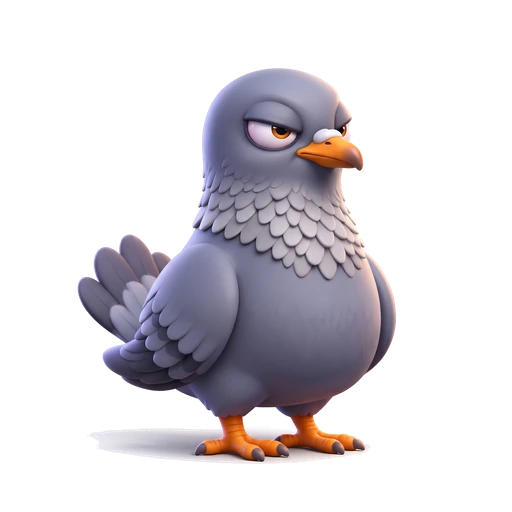
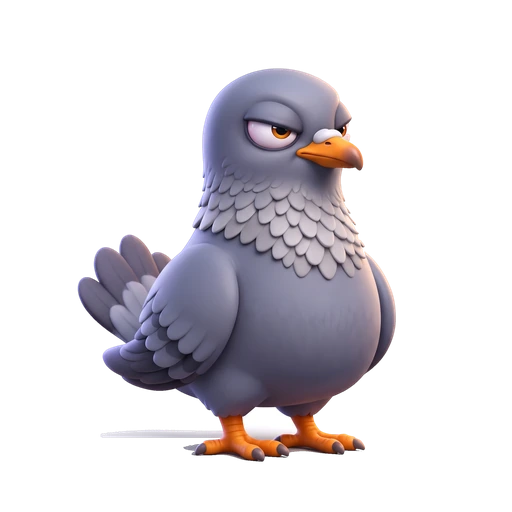
fix: убран белёсый ореол под лапами и добавлен dev-блок превью слоёв

Changed region(s): [[0.1875, 0.8438, 0.7188, 0.9062]]

diff --git a/src/ui.tsx b/src/ui.tsx
@@ -85,6 +85,19 @@ const EYE_TRAIT_MAP: Record<string, string> = {
   "10": "crazy",
 };
 
+const DEV_EYE_OPTIONS = [
+  { id: "grumpy", label: "Базовый (grumpy)" },
+  { id: "sparkle", label: "Сияющий (sparkle)" },
+  { id: "crazy", label: "Безумный (crazy)" },
+  { id: "cyber", label: "Кибер (cyber)" },
+  { id: "boss", label: "Босс (boss)" },
+  { id: "sleepy", label: "Сонный (sleepy)" },
+  { id: "anime", label: "Аниме (anime)" },
+  { id: "berserk", label: "Берсерк (berserk)" },
+  { id: "rich", label: "Богатый (rich)" },
+  { id: "reaper", label: "Жнец (reaper)" },
+] as const;
+
 function Pigeon({
   rarityIndex,
   feedEffect,
@@ -387,6 +400,8 @@ export default function App() {
   const [counter, setCounter] = useState(Date.now());
   const [confirm, setConfirm] = useState<number | null>(null);
   const [splash, setSplash] = useState(true);
+  const [previewRarity, setPreviewRarity] = useState<number | null>(null);
+  const [previewEyes, setPreviewEyes] = useState<string | null>(null);
 
   useEffect(() => {
     const t = setInterval(() => setCounter(Date.now()), 1000);
@@ -407,6 +422,8 @@ export default function App() {
     s.birds.find((b) => b.id === s.activeBirdId) ?? s.birds[s.birdIndex];
   const rarityIndex = bird?.rarity ?? s.rarity;
   const eyeTrait = bird?.traits?.eyes || "grumpy";
+  const activeRarity = previewRarity ?? rarityIndex;
+  const activeEyes = previewEyes ?? eyeTrait;
   const feeds = bird?.cycleFeeds ?? s.cycleFeeds;
   const startedAt = bird?.cycleStartedAt ?? s.cycleStartedAt;
   const expired =
@@ -485,10 +502,10 @@ export default function App() {
             <div className="rank">
               <span
                 style={
-                  { "--rarity": colors[rarityIndex] } as React.CSSProperties
+                  { "--rarity": colors[activeRarity] } as React.CSSProperties
                 }
               />
-              {rarity[rarityIndex]}
+              {rarity[activeRarity]}
             </div>
             <div className="bird-title">
               <div>
@@ -518,9 +535,9 @@ export default function App() {
           </div>
 
           <Pigeon
-            rarityIndex={rarityIndex}
+            rarityIndex={activeRarity}
             feedEffect={s.feedEffect}
-            eyeTrait={eyeTrait}
+            eyeTrait={activeEyes}
           />
 
           <div className="bird-meters">
@@ -548,6 +565,54 @@ export default function App() {
               />
             </div>
           </div>
+
+          {import.meta.env.DEV && (
+            <div className="dev-preview-panel">
+              <div className="dev-preview-header">
+                <small>🛠 DEV ПРЕВЬЮ СЛОЁВ ГОЛУБЯ</small>
+                {(previewRarity !== null || previewEyes !== null) && (
+                  <button
+                    type="button"
+                    className="dev-preview-reset"
+                    onClick={() => {
+                      setPreviewRarity(null);
+                      setPreviewEyes(null);
+                    }}
+                  >
+                    ↺ Сброс
+                  </button>
+                )}
+              </div>
+              <div className="dev-preview-controls">
+                <label>
+                  <span>Шея:</span>
+                  <select
+                    value={activeRarity}
+                    onChange={(e) => setPreviewRarity(Number(e.target.value))}
+                  >
+                    {RARITY_SLUGS.map((slug, idx) => (
+                      <option key={slug} value={idx}>
+                        {rarity[idx]} ({slug})
+                      </option>
+                    ))}
+                  </select>
+                </label>
+                <label>
+                  <span>Взгляд:</span>
+                  <select
+                    value={activeEyes}
+                    onChange={(e) => setPreviewEyes(e.target.value)}
+                  >
+                    {DEV_EYE_OPTIONS.map((opt) => (
+                      <option key={opt.id} value={opt.id}>
+                        {opt.label}
+                      </option>
+                    ))}
+                  </select>
+                </label>
+              </div>
+            </div>
+          )}
 
           <section className="action-card">
             <div className="feed-summary">

diff --git a/src/style.css b/src/style.css
@@ -421,6 +421,79 @@ button:disabled {
   background: linear-gradient(90deg, #f0ac26, #ffdf6f);
 }
 
+/* ─── Dev-only Preview Panel ─── */
+.dev-preview-panel {
+  width: 100%;
+  padding: 8px 10px;
+  background: rgba(23, 13, 36, 0.92);
+  border: 1px dashed rgba(255, 198, 41, 0.45);
+  border-radius: 12px;
+  margin: 4px 0 8px;
+  display: flex;
+  flex-direction: column;
+  gap: 6px;
+  backdrop-filter: blur(8px);
+}
+
+.dev-preview-header {
+  display: flex;
+  justify-content: space-between;
+  align-items: center;
+}
+
+.dev-preview-header small {
+  color: #ffc629;
+  font-weight: 700;
+  letter-spacing: 0.08em;
+  font-size: 10px;
+}
+
+.dev-preview-reset {
+  background: rgba(255, 255, 255, 0.1);
+  border: 1px solid rgba(255, 255, 255, 0.2);
+  color: #f3effa;
+  border-radius: 6px;
+  padding: 2px 8px;
+  font-size: 10px;
+  cursor: pointer;
+  transition: background 0.15s;
+}
+
+.dev-preview-reset:hover {
+  background: rgba(255, 255, 255, 0.2);
+}
+
+.dev-preview-controls {
+  display: flex;
+  gap: 8px;
+  width: 100%;
+}
+
+.dev-preview-controls label {
+  flex: 1;
+  display: flex;
+  flex-direction: column;
+  gap: 3px;
+  color: #a89caf;
+  font-size: 10px;
+  font-weight: 500;
+}
+
+.dev-preview-controls select {
+  background: #100919;
+  color: #f3effa;
+  border: 1px solid rgba(255, 255, 255, 0.18);
+  border-radius: 6px;
+  padding: 4px 6px;
+  font-size: 11px;
+  outline: none;
+  cursor: pointer;
+}
+
+.dev-preview-controls select:focus {
+  border-color: #ffc629;
+}
+
 /* ─── Карточка действий ─── */
 .action-card {
   flex: none;

diff --git a/scripts/build-pigeon-assets.py b/scripts/build-pigeon-assets.py
@@ -57,34 +57,44 @@ EYES_MAPPING = {
 
 def extract_base_body(base_img: Image.Image) -> tuple[Image.Image, np.ndarray]:
     """
-    Удаляет внешний белый фон у base.jpg с де-фринжингом (устранением белого ореола)
-    и мягким сглаживанием краёв. Возвращает RGBA изображение и булеву маску внешнего фона.
+    Удаляет внешний белый фон и остаточную наземную тень у base.jpg с де-фринжингом
+    (устранением белого ореола) и мягким сглаживанием краёв без подрезки пальцев/когтей.
+    Возвращает RGBA изображение и булеву маску внешнего фона.
     """
     rgb = base_img.convert("RGB")
     arr = np.array(rgb, dtype=np.float32)
 
-    # Кандидаты на белый фон: евклидово расстояние от белого (255, 255, 255) < 32
     dist_from_white = np.sqrt(np.sum((255.0 - arr) ** 2, axis=-1))
-    is_white_candidate = (dist_from_white < 32).astype(np.uint8) * 255
+    channel_diff = arr.max(axis=-1) - arr.min(axis=-1)
+    bright = arr.mean(axis=-1)
 
-    # Заливка из 4 углов, чтобы найти внешний фон и не трогать белые элементы внутри
-    bg_img = Image.fromarray(is_white_candidate).copy()
+    # Кандидаты на внешний фон:
+    # 1. По всему кадру: пиксели близкие к чистому белому (dist < 38)
+    # 2. В нижней зоне (y > 1750): нейтральная светло-серая тень под ногами
+    #    (bright > 155, channel_diff < 30), не затрагивая тёмные/насыщенные когти и обувь
+    is_bg_candidate = (dist_from_white < 38)
+    bottom_shadow = (np.arange(arr.shape[0])[:, None] > 1750) & (bright > 155) & (channel_diff < 30)
+    is_bg_candidate = is_bg_candidate | bottom_shadow
+
+    # Заливка из 4 углов, чтобы найти внешний фон и не трогать белые элементы внутри подошв
+    bg_img = Image.fromarray((is_bg_candidate.astype(np.uint8) * 255)).copy()
     for seed in [(0, 0), (0, bg_img.height - 1), (bg_img.width - 1, 0), (bg_img.width - 1, bg_img.height - 1)]:
         ImageDraw.floodfill(bg_img, seed, 128)
 
     outer_bg = (np.array(bg_img) == 128)
-    fg_mask = (~outer_bg).astype(np.uint8) * 255
+    fg_mask = Image.fromarray(((~outer_bg).astype(np.uint8) * 255))
 
-    # Сглаживание краёв маски
-    smooth_mask = Image.fromarray(fg_mask).filter(ImageFilter.GaussianBlur(1.2))
+    # Микро-эрозия (MinFilter 3) отсекает краевой 1-пиксельный JPEG-шум белого фона,
+    # затем GaussianBlur(1.0) даёт плавный субпиксельный антиалиасинг
+    smooth_mask = fg_mask.filter(ImageFilter.MinFilter(3)).filter(ImageFilter.GaussianBlur(1.0))
     alpha = np.array(smooth_mask, dtype=np.float32) / 255.0
+    alpha[alpha < 0.03] = 0.0
 
-    # Де-фринжинг: восстанавливаем истинный цвет контура без подмешанного белого фона
+    # Математический де-фринжинг: восстанавливаем истинный цвет контура без подмешанного белого фона
     # C_obs = alpha * C_fg + (1 - alpha) * 255  ==>  C_fg = (C_obs - 255 * (1 - alpha)) / alpha
-    fg_rgb = np.zeros_like(arr)
-    for c in range(3):
-        unblended = (arr[:, :, c] - 255.0 * (1.0 - alpha)) / np.maximum(alpha, 1e-4)
-        fg_rgb[:, :, c] = np.clip(unblended, 0.0, 255.0)
+    alpha_3d = np.maximum(alpha[:, :, None], 0.05)
+    fg_rgb = (arr - 255.0 * (1.0 - alpha[:, :, None])) / alpha_3d
+    fg_rgb = np.clip(fg_rgb, 0.0, 255.0)
 
     rgba = np.dstack([fg_rgb.astype(np.uint8), (alpha * 255.0).astype(np.uint8)])
     base_rgba = Image.fromarray(rgba, "RGBA")
